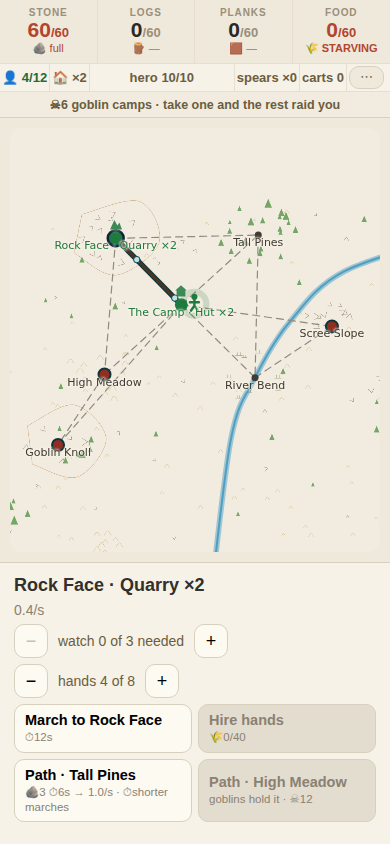
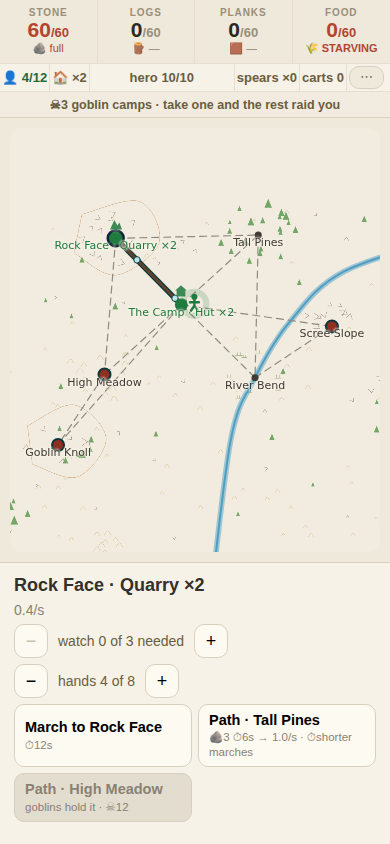
F0/F1/F2/F5/F6/F8: the starvation dead end, and five smaller fixes
F0 -- THE DEAD END, and it was mine. "People are starving... I don't
understand where can I build another farm then... I think at this point,
I'm not able to stop starving. There is no way."

Two mechanisms, both fixed.

The OVERSHOOT: settlers arrived whenever there was food IN THE STORE, so
a town with a full larder and no fields kept taking people until the
larder ran out -- at which point it was too big to feed, every farmable
site already held its one farm, and the only deed on offer cost food.
Growth now wants a SURPLUS or a larder still above a quarter full. Not a
pure surplus gate: requiring one outright deadlocks the opening, because
a fresh valley has no fields and would stall at the wild's table with no
hands to quarry the stone that buys the spear that takes the first field.

The WAY OUT: nothing ever reduced the number of mouths. A deep famine now
costs people -- they give up and walk out, one every twenty seconds --
down to the wild's table and no further, so a valley can never empty out
and freeze. Grim, and self-correcting: the town falls until the fields it
has can feed it, and then it recovers.

F1 -- HIRING IS GONE, one day after it shipped. "Where from? This is a
valley, and there is no extra people there except goblin captives. Where
are we hiring hands from? This shouldn't be here." And separately: "Is it
gonna increase my maximum there? Why? It is a weird solution." Both
halves right: it read as conjuring people from nothing, what it did was
[…]

Changed region(s): [[0.0308, 0.8318, 0.9846, 0.9858]]

diff --git a/src/camp/engine.ts b/src/camp/engine.ts
@@ -216,7 +216,15 @@ export function raidTarget(g: City, id: number): number | null {
  *  SPAWN a second, so a bigger holding closes its wounds faster and the
  *  grind pays nothing anywhere. Fight one (12 strong) is barely touched:
  *  0.048/s against the old 0.05. */
-export const GOBLIN_REGEN = 0.004;
+/** ⚠ 0.004 → 0.0075, 2026-08-11, AND IT IS TIED TO `HEAL_SECS`. The gate
+ *  that stops you grinding a holding down below its rung is a race: you
+ *  retreat, you heal, you come back — and the holding must close its wounds
+ *  faster than that cycle pays. Halving the hero's heal time (the owner, for
+ *  the second playthrough running: *"your hero health regeneration is still
+ *  too slow"*) halves the cycle, so the ladder's gate needs the other half of
+ *  the race to keep up or the grind quietly becomes the optimal play at every
+ *  rung. The solver test is what caught it, and what set this number. */
+export const GOBLIN_REGEN = 0.0075;
 /** What a holding regains a second — its own spawn strength times the
  *  rate, so the ladder's own numbers set the pace. */
 export const regenOf = (id: number): number =>
@@ -425,9 +433,15 @@ export const initial = (): City => ({
   fight: null,
 });
 
-/** The hero's base health, and the pace of getting it back. */
+/** The hero's base health, and the pace of getting it back.
+ *  ★ HEAL_SECS 15 → 8, 2026-08-11: *"your hero health regeneration is still
+ *  too slow."* Said twice across two playthroughs. At 15s a hero coming out
+ *  of a deep-country fight at 2 of 16 stood in the camp for three and a half
+ *  minutes doing nothing, which in a game about marching somewhere is three
+ *  and a half minutes of not playing. Eating (see `MEAL_FOOD`) is the fast
+ *  way; this is the free one. */
 export const HERO_HP = 10;
-export const HEAL_SECS = 15;
+export const HEAL_SECS = 8;
 /** Every third answer, the whole line winds up and bites double. */
 export const WINDUP_EVERY = 3;
 /** Rations, mid-fight: the hero carries a PACK of them — two a sortie,
@@ -492,6 +506,22 @@ export function lineOf(strength: number, bite: number, runt: number,
  *  already taken. */
 export const windup = (round: number): boolean =>
   (round + 1) % WINDUP_EVERY === 0;
+
+/** ★★★ A MEAL AT THE CAMP — F8, 2026-08-11. The owner: *"your hero health
+ *  regeneration is still too slow, and I don't understand why I can't eat
+ *  food."* Rations existed only INSIDE a fight, so the obvious thing to try
+ *  outside one — spend food, get health — was simply missing. Same food, same
+ *  health, no pack limit: packs ration a FIGHT, and this is not one. */
+export const MEAL_FOOD = 6;
+export const MEAL_HP = 4;
+/** Why the hero cannot eat, in plain words, or null. */
+export function uneatable(g: City): string | null {
+  if (g.lost) return 'the valley is lost';
+  if (g.fight) return 'use rations in a fight';
+  if (g.hero.hp >= heroMax(g)) return 'the hero is whole';
+  if (g.food < MEAL_FOOD) return outOf('food', g.food, MEAL_FOOD);
+  return null;
+}
 
 /** ★ EVERY LIBERATION TOUGHENS THE HERO: +3 health per ground freed.
  *  The deep country's bites (5s and 6s) are priced against this — spears
@@ -896,6 +926,20 @@ export const cartCost = (have: number): { stone: number; planks: number } => ({
 export const HUT_ROOM = 4;
 /** Seconds to grow one person when there is room. */
 export const GROW_SECS = 12;
+/** ★ How full the larder must be for settlers to keep coming without a
+ *  surplus. A quarter: enough to carry the opening, not enough to let a
+ *  fieldless town grow itself into a famine it cannot leave. */
+export const GROW_STORE = 0.25;
+/** ★★★ AND THE WAY OUT — 2026-08-11. Seconds of deep famine before someone
+ *  gives up and walks out of the valley.
+ *
+ *  The owner played into a town that could not be fed and could not be
+ *  shrunk: *"I think at this point, I'm not able to stop starving. There is
+ *  no way."* They were right — every farmable site already held its one farm,
+ *  the only deed on offer cost food, and nothing reduced the number of
+ *  mouths. A famine now COSTS PEOPLE, which is grim and self-correcting: the
+ *  town falls until the fields it has can feed it, and then it recovers. */
+export const LEAVE_SECS = 20;
 
 /** ★ First copy's price, IN THE MATERIAL THAT MAKES SENSE — the owner:
  *  *"it's weird that i need stone to build lumberjack camp."* Huts are
@@ -1380,7 +1424,10 @@ export function unraisable(g: City, id: number): string | null {
   // ★ ONE HAMMER PER SITE, the same ruling `unlayable` makes about spades.
   // It is also what keeps the price honest: with a job in flight `stacks`
   // has not moved yet, so a second order would buy copy #n twice.
-  if (g.raising[id]) return 'already raising';
+  // ★ F5, 2026-08-11 — the owner: *"why does it say already raising when the
+  // building is already being built? It is being built, not being raised."*
+  // `raising` is this file's word for the job; it was never the player's.
+  if (g.raising[id]) return 'already building';
   // ★ ONE WORKS PER SITE (2026-08-11) — see WORKS_MAX. More output means more
   // ground now, not more buildings on the ground you hold.
   if (id !== 0 && (g.stacks[id] ?? 0) >= WORKS_MAX) return 'one works per place — post hands instead';
@@ -1460,6 +1507,8 @@ export type Action =
   | { type: 'found' }
   /** Send the hero out for whatever the country will give up. */
   | { type: 'forage' }
+  /** ★ Spend food on the hero's health, outside a fight (2026-08-11). */
+  | { type: 'eat' }
   /** ★ Hire another crew onto a site's works (2026-08-11). */
   | { type: 'hire'; id: number }
   /** ★ Post or unpost a defender at a site (2026-08-11). */
@@ -1626,7 +1675,29 @@ export function apply(g: City, a: Action): City {
       // larder before they move in. Captives are the exception (fights).
       let pop = g.pop;
       let popPart = g.popPart;
-      const fed = pop < WILD_FED || g.food > 1;
+      // ★★★ SETTLERS COME FOR A SURPLUS, NOT A LARDER — 2026-08-11, and this
+      // is the fix for the dead end the owner played into: *"People are
+      // starving… I think at this point, I'm not able to stop starving. There
+      // is no way."*
+      //
+      // Growth used to ask only whether there was food IN THE STORE. So a
+      // town with a full larder and no fields kept taking settlers until the
+      // larder ran out, at which point it was too big to feed and there was
+      // no lever left — every farmable site already held its one farm, and
+      // the only deed on offer (hiring) cost food. The overshoot was built in.
+      //
+      // Growth now asks whether the town makes MORE bread than it eats. A
+      // town living off its stores stops growing, which means it can never
+      // grow itself into a famine it cannot leave.
+      // ⚠ NOT A PURE SURPLUS GATE. Requiring a surplus outright deadlocks
+      // the opening: a fresh valley has no fields at all, so the town would
+      // stall at the wild's table with no hands to quarry the stone that buys
+      // the spears that take the first field. It grows on a HEALTHY STORE or
+      // a surplus — and stops once the larder is running down, which is the
+      // overshoot that built the dead end.
+      const surplus = f.food - hunger(g);
+      const stocked = g.food > roomOf(g) * GROW_STORE;
+      const fed = pop < WILD_FED || surplus > 0 || stocked;
       if (pop < popCap(g) && fed) {
         popPart += s / GROW_SECS;
         const grown = Math.floor(popPart);
@@ -1636,11 +1707,20 @@ export function apply(g: City, a: Action): City {
         // sailed straight past the six the wild feeds, and the food artery
         // the whole mid-game is built on simply did not bite when the game
         // was in a pocket. Growth stops AT the table until there is bread.
-        const room = g.food > 1 ? popCap(g) : Math.max(pop, WILD_FED);
+        const room = surplus > 0 || stocked
+          ? popCap(g) : Math.max(pop, WILD_FED);
         pop = Math.min(room, pop + grown);
         popPart -= grown;
       } else {
         popPart = 0;
+      }
+      // ★★★ AND THEY LEAVE A TOWN THAT CANNOT FEED THEM. Only once the famine
+      // is DEEP — a short pinch is a squeeze to manage, not a rout — and never
+      // below the wild's table, because the valley itself feeds that many.
+      if (g.famine >= FAMINE_DEEP && pop > WILD_FED) {
+        popPart -= s / LEAVE_SECS;
+        while (popPart < 0 && pop > WILD_FED) { pop -= 1; popPart += 1; }
+        if (pop <= WILD_FED) popPart = Math.max(0, popPart);
       }
       // The hero heals at home — never mid-fight — toward the max the
       // fights already won have earned.
@@ -2027,6 +2107,12 @@ export function apply(g: City, a: Action): City {
       const guard = { ...g.guard };
       if (next <= 0) delete guard[a.id]; else guard[a.id] = next;
       return { ...g, guard };
+    }
+
+    case 'eat': {
+      if (uneatable(g) !== null) return g;
+      return { ...g, food: g.food - MEAL_FOOD,
+        hero: { ...g.hero, hp: Math.min(heroMax(g), g.hero.hp + MEAL_HP) } };
     }
 
     case 'march': {

diff --git a/test/campbuilder.test.ts b/test/campbuilder.test.ts
@@ -16,6 +16,7 @@ import { apply, initial, flow, shown, popCap, pathKey, costOf, pathCostOf, heroM
   FORAGE_SECS, FORAYS, nextForay, unforageable, faminePinch, START_FOOD, FAMINE_DEEP, onWatch,
   WALK_SECS, marchSecs, legsBetween, unmarchable, AMBUSH_TELL, MUSTER_SHOWS,
   walkSecs, ROUGH, SWEEP_SHARE, GUARD_STOP, guardsAt, STOW_SECS, hireCost, unhireable,
+  LEAVE_SECS, GROW_STORE,
   RATION_FOOD, RATION_HP, RATION_PACK,
   BLOW_SECS, blowLeft, SPEAR_NAME, SPEAR_MADE, spearLabel,
   HERO_HP, HEAL_SECS, WILD_FED, EAT, CAPTIVES,
@@ -1071,7 +1072,7 @@ describe('★★ THE FLEE-REGROUP GRIND PAYS NOTHING, at every rung', () => {
     expect(regenOf(4)).toBeCloseTo(GOBLINS[4]!.strength * GOBLIN_REGEN, 9);
     expect(regenOf(9)).toBeGreaterThan(regenOf(4));
     // Fight one is barely touched: the tutorial's pace is the old pace.
-    expect(regenOf(4)).toBeCloseTo(0.048, 6);
+    expect(regenOf(4)).toBeCloseTo(12 * GOBLIN_REGEN, 6);
   });
 });
 
@@ -1951,7 +1952,7 @@ describe('★★★ A WORKS TAKES TIME TO RAISE', () => {
 
   it('★ one hammer per site — a second order is refused, not queued', () => {
     const g = apply(site(), { type: 'raise', id: 1 });
-    expect(unraisable(g, 1)).toBe('already raising');
+    expect(unraisable(g, 1)).toBe('already building');
     expect(apply(g, { type: 'raise', id: 1 })).toBe(g);
     // ...and the price is not paid twice for a copy that does not stand yet.
     expect(g.stone).toBe(99 - BASE.quarry.stone!);
@@ -2813,5 +2814,62 @@ describe('★★★ MORE HANDS ON ONE WORKS', () => {
     const stacked = honour({ game: { ...pit(), stacks: { 0: 12, 1: 4 } },
       savedAt: 1 })!.game;
     expect(flow(stacked).hands.get(1)).toBe(CREW * 4);
+  });
+});
+
+// ---------------------------------------------------------------------------
+// ★★★ F0 — THE STARVATION DEAD END, 2026-08-11. The owner played a fresh
+// valley into a town that could not be fed and could not be shrunk: *"People
+// are starving… I don't understand where can I build another farm then… I
+// think at this point, I'm not able to stop starving. There is no way."*
+// They were right, and it was a regression: capping works at one per site
+// capped FARMS at one per site, and nothing reduced the number of mouths.
+// ---------------------------------------------------------------------------
+describe('★★★ A TOWN CAN ALWAYS GET OUT OF A FAMINE', () => {
+  const fieldless = (over: Partial<City> = {}): City => ({ ...initial(),
+    stacks: { 0: 12 }, pop: 20, food: 400, ...over });
+
+  it('★★★ A DEEP FAMINE COSTS PEOPLE, which is the way out', () => {
+    const starved: City = { ...fieldless({ food: 0 }), famine: FAMINE_DEEP };
+    const later = tick(starved, LEAVE_SECS * 3 + 1);
+    expect(later.pop).toBeLessThan(starved.pop);
+    // ...and it stops at the table the wild itself feeds, so a valley can
+    // never empty out entirely and freeze the save.
+    const long = tick(starved, LEAVE_SECS * 500);
+    expect(long.pop).toBe(WILD_FED);
+  });
+
+  it('★★ a SHALLOW famine is still a squeeze to manage, not a rout', () => {
+    const pinched: City = { ...fieldless({ food: 0 }), famine: 1 };
+    expect(tick(pinched, LEAVE_SECS * 2).pop).toBe(pinched.pop);
+  });
+
+  it('★★★ AND IT CANNOT GROW ITSELF BACK INTO ONE: settlers want a surplus', () => {
+    // A fieldless town on a running-down larder used to keep taking settlers
+    // until the larder hit zero — the overshoot that built the dead end.
+    //
+    // ⚠ THE LARDER MUST LAST THE TICK. At `food: 2` this passed with the old
+    // rule restored, because the food ran out inside the tick and the OLD
+    // rule's own clamp then held the population down — so the test was
+    // measuring the empty larder, not the new gate. Caught by sabotage. The
+    // larder below survives the whole tick and still sits under
+    // `GROW_STORE`, which only the new rule refuses to grow on.
+    const thin = fieldless({ food: roomOf(fieldless()) * GROW_STORE * 0.8, pop: 6 });
+    expect(thin.food).toBeGreaterThan(hunger(thin) * GROW_SECS * 1.5 + 1);
+    expect(tick(thin, GROW_SECS * 1.5).pop).toBe(6);
+    // A stocked larder still carries the OPENING, or a fresh valley would
+    // stall at the wild's table with no hands to quarry the first spear.
+    const stocked = fieldless({ food: roomOf(fieldless()) * 0.9, pop: 6 });
+    expect(tick(stocked, GROW_SECS * 4).pop).toBeGreaterThan(6);
+  });
+
+  it('★ a town with real fields grows on the surplus alone', () => {
+    // Green Vale is rich; a staffed field out-earns what the town eats.
+    const farmed: City = { ...initial(), goblins: {}, pop: 6, food: 3,
+      stacks: { 0: 12, 9: 1 }, crew: { 9: CREW },
+      paths: { [pathKey(0, 4)]: 1, [pathKey(4, 6)]: 1, [pathKey(6, 7)]: 1,
+        [pathKey(7, 9)]: 1 } };
+    expect(flow(farmed).food).toBeGreaterThan(hunger(farmed));
+    expect(tick(farmed, GROW_SECS * 3).pop).toBeGreaterThan(6);
   });
 });

diff --git a/src/ui/Camp.svelte b/src/ui/Camp.svelte
@@ -14,7 +14,7 @@
     unmarchable, marchSecs, onWatchAt, MUSTER_SHOWS,
     richOf, storeCost, roomOf, STORE_ROOM, cartCost, cartHaul, CARRY, CART_GAIN,
     raiders, raidTarget,
-    windup, RATION_FOOD, RATION_HP, answerBite,
+    windup, RATION_FOOD, RATION_HP, answerBite, uneatable, MEAL_FOOD, MEAL_HP,
     type City } from '../camp/engine';
   import { load, save, wipe, exportRaw, importRaw, elapsedSince } from '../camp/store';
   import { CAMP_SHAPES } from '../camp/scenery';
@@ -54,6 +54,13 @@
   const brim = (n: number): boolean => n >= roomOf(game) - 1e-9;
   /** How much of the valley is still theirs — the goal, as one number. */
   const holdings = $derived(Object.keys(game.goblins).length);
+  /** ★★ AND HOW MANY OF THEM YOU CAN ACTUALLY SEE — F6, 2026-08-11. The
+   *  owner: *"it's a bit strange that it says five camps left while I can
+   *  only see two."* The count was every holding on the map; the board only
+   *  draws what the fog has lifted on. A number you cannot reconcile with
+   *  what is in front of you is worse than no number. */
+  const shownHoldings = $derived(
+    shown(game).filter((s) => game.goblins[s.id]).length);
   /** ★ THE NEAREST RAID: whichever holding is fullest, and what it is
    *  coming for. `null` before first blood, when there is no war yet. */
   const worst = $derived((() => {
@@ -432,23 +439,33 @@
       go: () => act({ type: 'raise', id: s.id }),
     });
     }
-    // ★★★ AND MORE HANDS ONTO IT — 2026-08-11. The other half of the owner's
-    // ask: *"we should limit the number to one per location. And then we
-    // should allow to add more people there."* Priced in food and climbing
-    // 1.6^n, so deepening a site you hold stays worse than walking out and
-    // taking one you do not — which is the complaint that started the item.
-    if (s.id !== 0 && have > 0) {
-      const w = unhireable(game, s.id);
-      const crews = 1 + (game.hire[s.id] ?? 0);
-      out.push({
-        label: `Hire hands`,
-        note: w ?? `${amount('food', hireCost(game.hire[s.id] ?? 0))}`
-          + ` → ${(crews + 1) * CREW} can work here`,
-        why: w,
-        go: () => act({ type: 'hire', id: s.id }),
-      });
-    }
+    // ⚠ THE HIRE DEED IS GONE, 2026-08-11, one day after it shipped. The
+    // owner, reading it in play: *"Where from? This is a valley, and there is
+    // no extra people there except goblin captives. Where are we hiring hands
+    // from? This shouldn't be here."* And: *"Is it gonna increase my maximum
+    // there? Why? It is a weird solution."*
+    //
+    // Both halves were right. It read as conjuring people out of nothing, and
+    // what it actually did — raise a cap — was invisible until you were
+    // already standing at that cap. Worse, it was priced in FOOD, so the one
+    // deed a starving town was offered took food away from it: half of the
+    // dead end in F0. `hire` stays in the engine and on the save so nobody's
+    // existing crews vanish; nothing sells it any more. One works, one crew.
     if (s.id === 0) {
+      // ★★★ A MEAL — F8, 2026-08-11: *"I don't understand why I can't eat
+      // food."* Rations only ever existed inside a fight, so outside one
+      // there was no way to spend food on health at all.
+      {
+        const w = uneatable(game);
+        if (game.hero.hp < heroMax(game) && !game.fight) {
+          out.push({
+            label: 'Feed the hero',
+            note: w ?? `${amount('food', MEAL_FOOD)} → ${MARK.hero}+${MEAL_HP}`,
+            why: w,
+            go: () => act({ type: 'eat' }),
+          });
+        }
+      }
       // ★★★ THE FORAY — the floor under the economy, and the only deed in
       // the game that needs nothing at all. A raid can strip a town of every
       // works while its stores sit at zero; without this there is no way
@@ -859,12 +876,12 @@
           : game.hero.trip
             ? `${MARK.hero}→${SITE.get(game.hero.trip.to)?.name ?? ''}`
             : `${MARK.hero} ${SITE.get(game.hero.at)?.name ?? ''}`}
-        · {MARK.danger}{holdings} camps left
+        · {MARK.danger}{shownHoldings} camps left
       {:else if holdings > 0}
         <!-- ★ WHAT A HOLDING IS, not just how many. The owner: *"why holdings
              are with skull and bones is not quite well understood by me…
              What is a holding? They come once you take one — who comes?"* -->
-        {MARK.danger}{holdings} goblin camps · take one and the rest raid you
+        {MARK.danger}{shownHoldings} goblin camps · take one and the rest raid you
       {:else}
         {MARK.danger}0 · the valley is yours
       {/if}

diff --git a/src/game/ink.ts b/src/game/ink.ts
@@ -47,8 +47,16 @@ export const INK = {
    *  the owner read as blue and could not place: *"once the colour of a
    *  dotted line is finalized, the part is still blue. I don't understand
    *  that color choice."* On a board whose one strong blue is the river, a
-   *  blue-green road is a stream. Brown is what a track is. */
-  route: '#4a3524',
+   *  blue-green road is a stream. Brown is what a track is.
+ *
+ *  ⚠ AND NOT NEARLY BLACK EITHER, 2026-08-11: the first brown was #4a3524,
+ *  dark enough that the owner read it as black — *"I don't understand why the
+ *  paths are black now. I don't think black is a good choice."* This is a
+ *  three-way fit, not a colour pick: it has to be earth rather than water,
+ *  light enough to read as brown, and far enough from `fill` (the ink for a
+ *  road still being dug) to clear the palette gate under colour blindness.
+ *  That last constraint is what pushed it dark in the first place. */
+  route: '#5c432c',
   /** ★ THE CASING UNDER IT — the near-black outline every real map draws first,
    *  then lays the coloured core over. It is most of why a printed map's lines
    *  read as LINES and ours read as strokes: the casing separates the flow from

diff --git a/test/palette.test.ts b/test/palette.test.ts
@@ -68,7 +68,13 @@ describe('★★★ THE PALETTE IS MEASURED, not felt', () => {
       ['open', 'shut', 'a road you can lay vs one you cannot'],
       ['foe', 'shut', 'danger vs a choke'],
       ['route', 'fill', 'a finished road vs one being dug'],
-      ['ward', 'route', 'the barrier round your country vs a road'],
+      // ⚠ WARD/ROUTE RETIRED FROM THIS LIST, 2026-08-11. The barrier ring was
+      // deleted from the board the day before — the owner: *"so barrier
+      // doesn't serve any function"* — so these two inks can no longer appear
+      // on the same screen, and holding a road hostage to a shape nobody
+      // draws is how a guard turns into a nuisance. `ward` is still an ink
+      // (the scenes use it); if anything ever draws it on the board again,
+      // put this line back.
       ['foe', 'you', 'their ground vs where you stand'],
     ];
     for (const [a, b, why] of pairs) {
